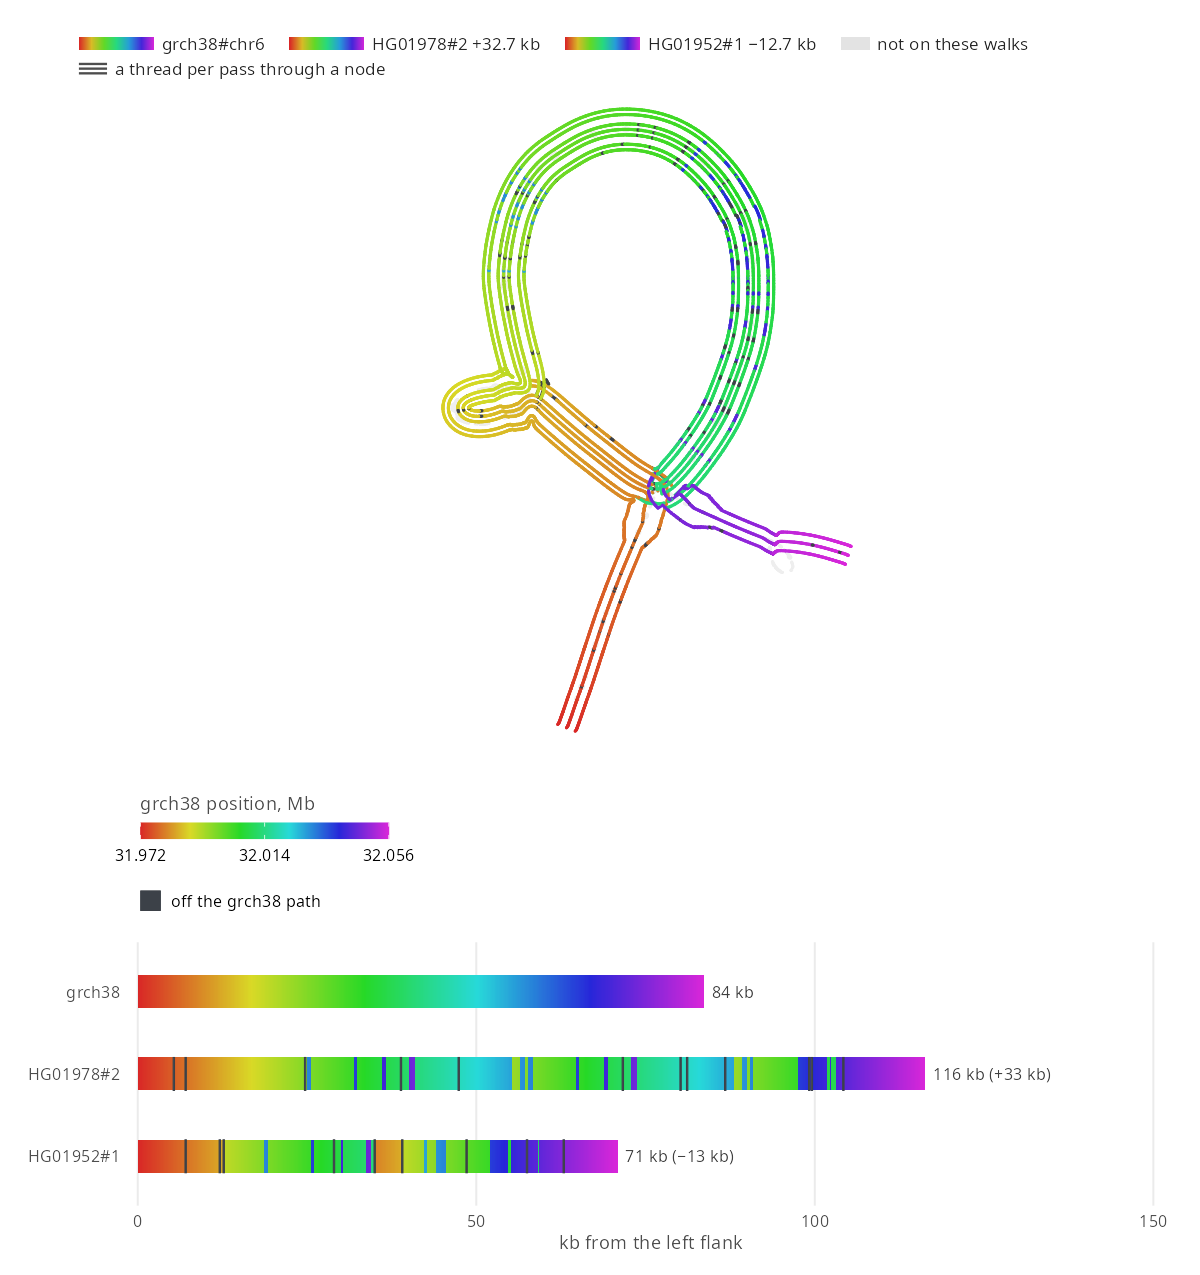
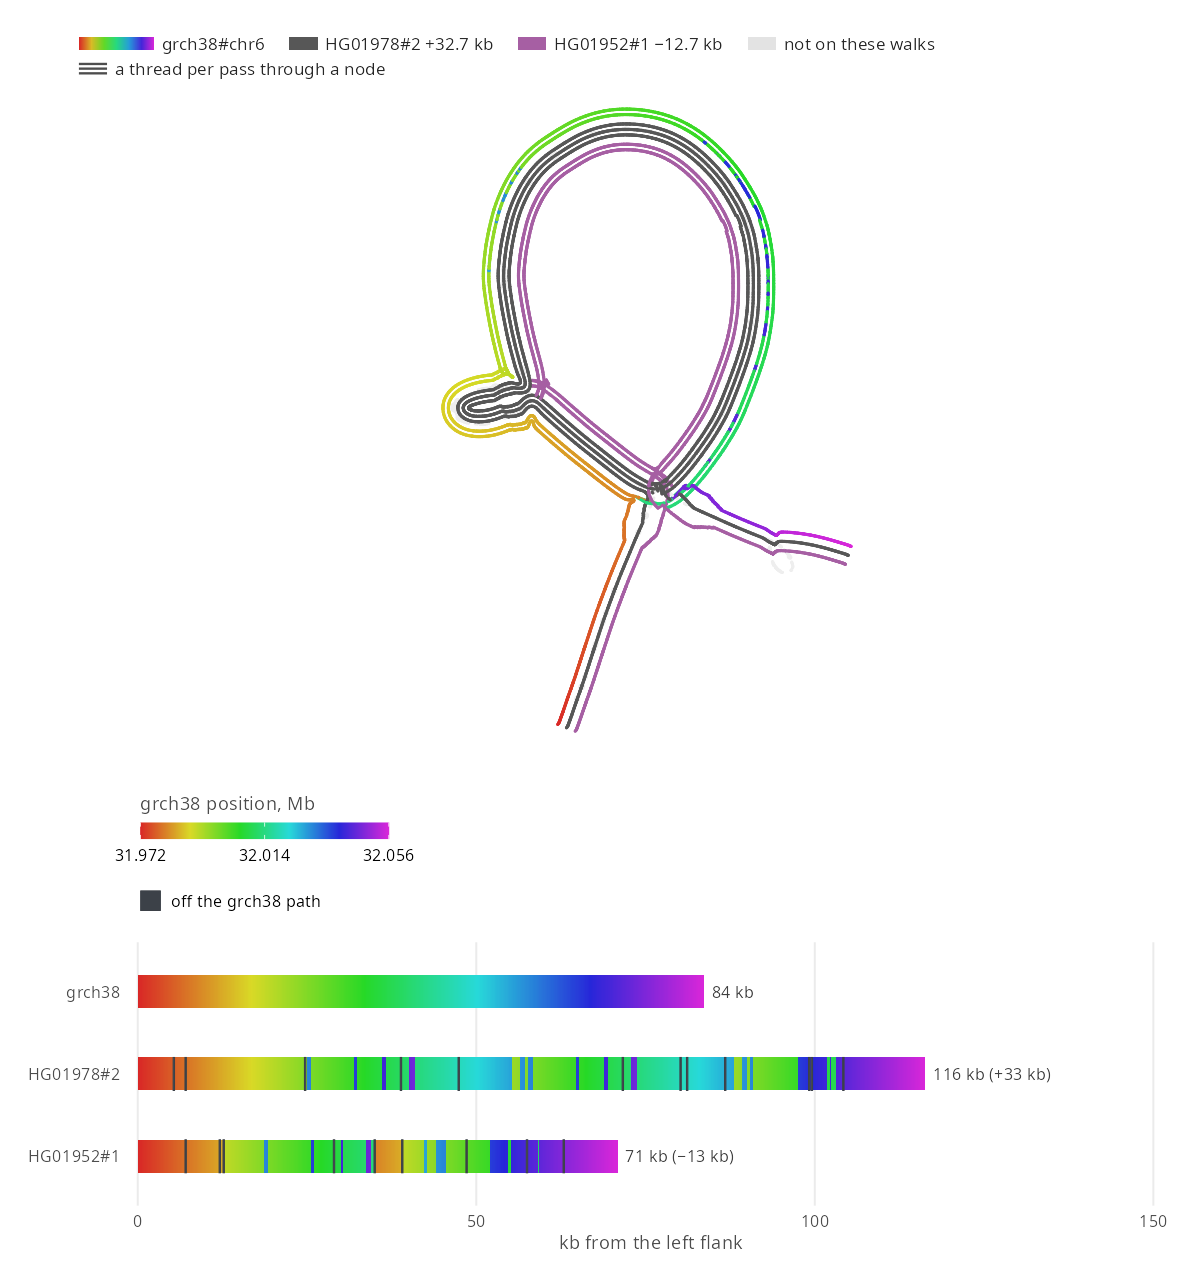
Put only grch38 on the position ramp in the C4 HERV-K figure
All three walks on the rainbow gave every thread through a node that
node's hue, so the lanes blurred together. The haplotypes now take flat
grey and mauve, which makes their threads countable round the ring.

diff --git a/docs/gallery.md b/docs/gallery.md
@@ -333,20 +333,20 @@ rows <- bandage_walk_rows(syng, haplotypes = c("HG02080", "HG00735", "HG01978"))
   plot_layout(heights = c(2.5, 1))
 ```
 
-### C4's HERV-K loop with each walk on a position ramp
+### C4's HERV-K loop on a GRCh38 position ramp
 
 `chr6:31,972,047-32,055,647`
 
-- Each thread takes the hue of the GRCh38 position its node covers, as the rows
+- grch38's threads take the hue of the GRCh38 position they cover, as the rows
   below do, so drawing and rows share one scale
-- Every pass through a node takes the same hue, so the gaps between lanes tell
-  the walks apart. The lanes run in the key's order, outside in
+- The haplotypes take one flat colour each, since on a position ramp every pass
+  through a node would share the node's hue and the walks would blur together
 - HG01978 draws three threads round the ring where grch38 draws two, one
   32.7 kb copy more
 - The loop at the left is the HERV-K in C4's intron 9, which makes a C4 long.
   GRCh38's C4A and C4B both contain it, and both of HG01952#1's copies lack it
 
-![The syng graph of C4 with grch38, HG01978 and HG01952 lifted together and drawn as a thread per pass through a node, every thread coloured red to magenta by the GRCh38 position its node covers, and walk rows below in the same hues. Every thread shares its node's hue, so the gaps between lanes tell the walks apart. Round the ring seven threads run in groups of two, three and two, the key's order outside in, so HG01978 draws one more than grch38 and HG01952. Five threads run round the loop at the left, the 6.5 kb HERV-K of C4's long form. HG01978's row is 32.7 kb longer than grch38's and HG01952's 12.7 kb shorter](../gallery/syng_ramp.png)
+![The syng graph of C4 with grch38, HG01978 and HG01952 lifted together and drawn as a thread per pass through a node: grch38's threads coloured red to magenta by GRCh38 position, HG01978's dark grey and HG01952's mauve. Round the ring, outside in, grch38 draws two threads, HG01978 three and HG01952 two. grch38 and HG01978 run round the loop at the left, the 6.5 kb HERV-K of C4's long form, and HG01952 cuts across it. Walk rows below take the GRCh38 position hues: HG01978's row is 32.7 kb longer than grch38's and HG01952's 12.7 kb shorter](../gallery/syng_ramp.png)
 
 ```r
 library(ggbandage)
@@ -355,7 +355,11 @@ library(patchwork)
 syng <- "https://raw.githubusercontent.com/GMOD/jbrowse-plugin-graphgenomeviewer/main/test_data/syng/c4.syng.gfa.gz"
 
 haps <- c("HG01978#2", "HG01952#1")
-hued <- lapply(c("grch38", haps), function(w) list(walk = w, color = list(field = "reference", scheme = "rainbow")))
+hued <- list(
+  list(walk = "grch38", color = list(field = "reference", scheme = "rainbow")),
+  list(walk = haps[1], color = list(field = "walk", scheme = "grey")),
+  list(walk = haps[2], color = list(field = "walk", scheme = "purple"))
+)
 g <- bandage_layout(syng, walks = hued)
 rows <- bandage_walk_rows(syng, haplotypes = haps)
 autoplot(g) / autoplot(rows, ribbons = FALSE, hues = "bandage") + plot_layout(heights = c(2.5, 1))

diff --git a/agent-docs/handoffs/thread-per-pass-overlays.md b/agent-docs/handoffs/thread-per-pass-overlays.md
@@ -8,7 +8,7 @@
 - The README shows eight figures, four wide then four tall: `cfh_overlay`, `kiv2_rows`, `amylase_rows`, `cyp2d6_stress`, `kiv2_overlay`, `syng_overlay`, `syng_rhd` and `own_colours`. `docs/gallery.md` shows them first and the other eight under "More examples". `readme = TRUE` in `scripts/gallery.R` marks the core set.
 - `kiv2_overlay`, `cfh_overlay` and `syng_overlay` sit above walk rows.
 - In all three each walk has a separate colour ramp, and each row repeats its walk's ramp unbroken along the bar, under a grey strip where it runs on the GRCh38 path. `cfh_overlay`'s ribbons break across the 85 kb HG02055#1 lacks.
-- `syng_overlay` lifts its walks as grey, blue and orange progress ramps with a thread per pass. Core 11.10.0 shades each thread by its own pass, so a node's threads step light to dark. `syng_ramp` is the position-ramp version, in `docs/gallery.md` only.
+- `syng_overlay` lifts its walks as grey, blue and orange progress ramps with a thread per pass. Core 11.10.0 shades each thread by its own pass, so a node's threads step light to dark. `syng_ramp`, in `docs/gallery.md` only, puts grch38 on a position ramp and the haplotypes in flat grey and mauve.
 - The six PNGs that drifted are redrawn:
   - `syng_c4`, `syng_kiv2`, `syng_amy` and `syng_rhd` moved by subpixels with core 11.7.2's `9c46a40`, which orients a force layout to the reference. A bundle of 11.7.1 redraws the old PNGs exactly.
   - `kiv2_walks` and `own_colours` were drawn from the `-f4` walk file, which jbrowse.org no longer serves.
@@ -68,6 +68,6 @@
 - **Crossing:** the lanes knot where the C4 ring closes and the tails leave it.
 - **Notch:** every lane jogs about 1 px at the top right of the C4 ring, where one run's smoothing hands over to another's.
 - **Floating curl:** the pale curl beside the right tail is sequence no lifted walk visits, drawn faded as the key says.
-- **Thumbnails:** the 2 px threads can't be counted at README thumbnail size. `syng_ramp` gives every pass through a node that node's colour, so all of a node's threads match.
+- **Thumbnails:** the 2 px threads can't be counted at README thumbnail size.
 - **Ramp rows:** a row's ramp runs from its bar's start, at the left flank, and the drawing's ramp from the cut's start, 1 kb further out, so the two differ by a few percent.
 - **Commit trailers:** some agent commits say Opus 5.5 where the owner's say Sonnet.
